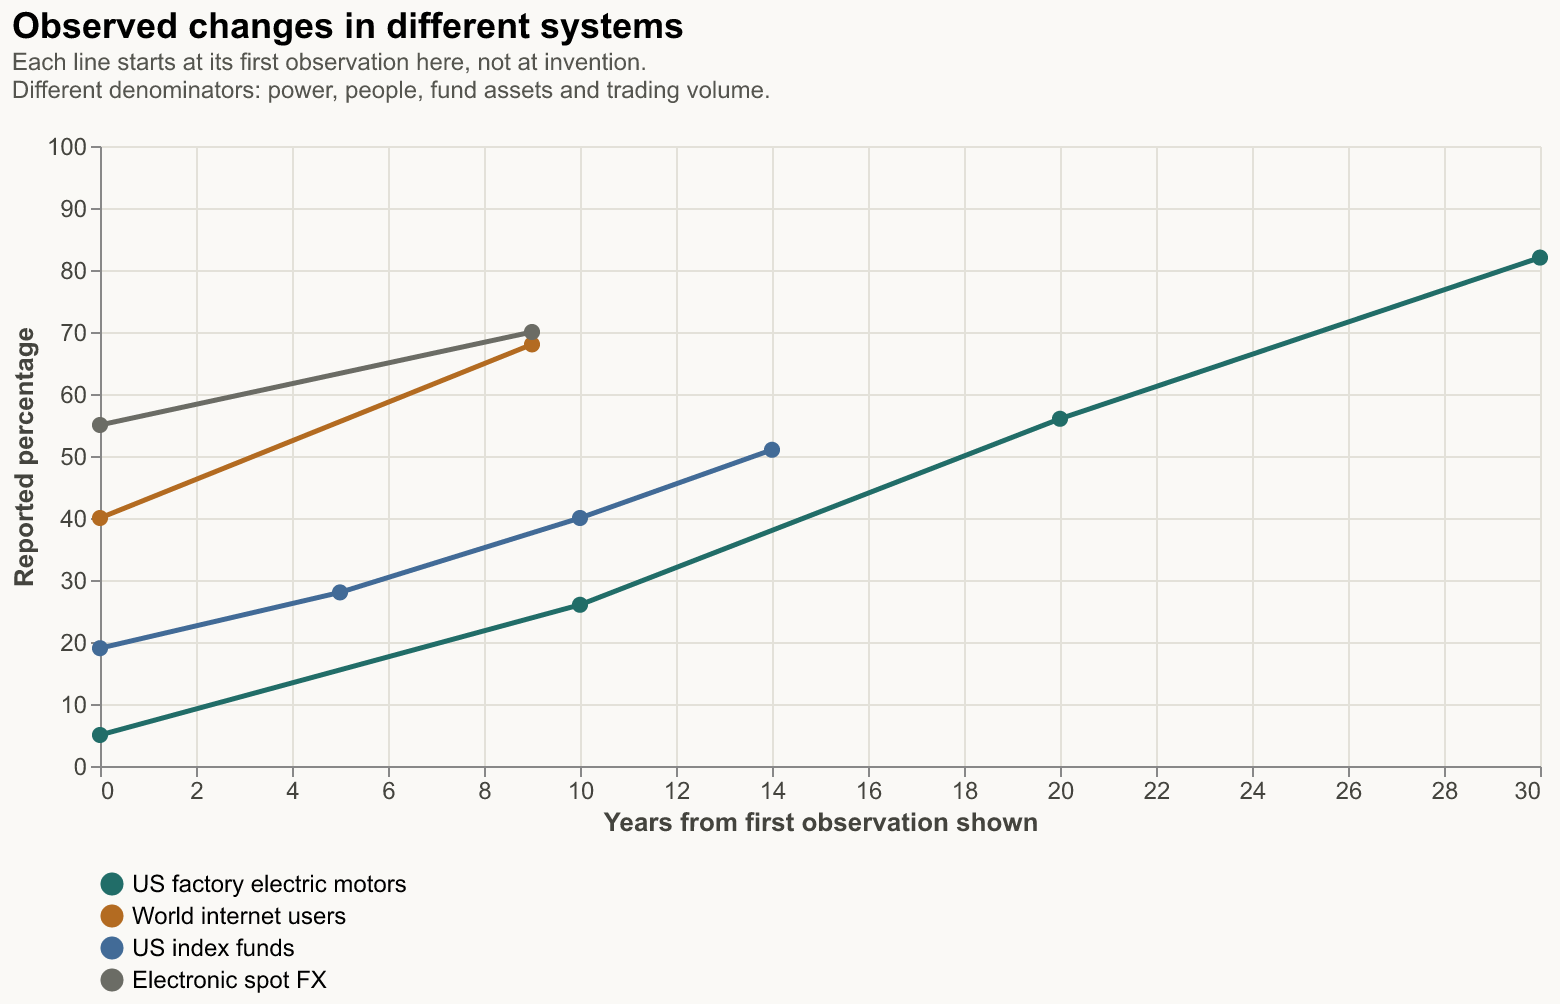
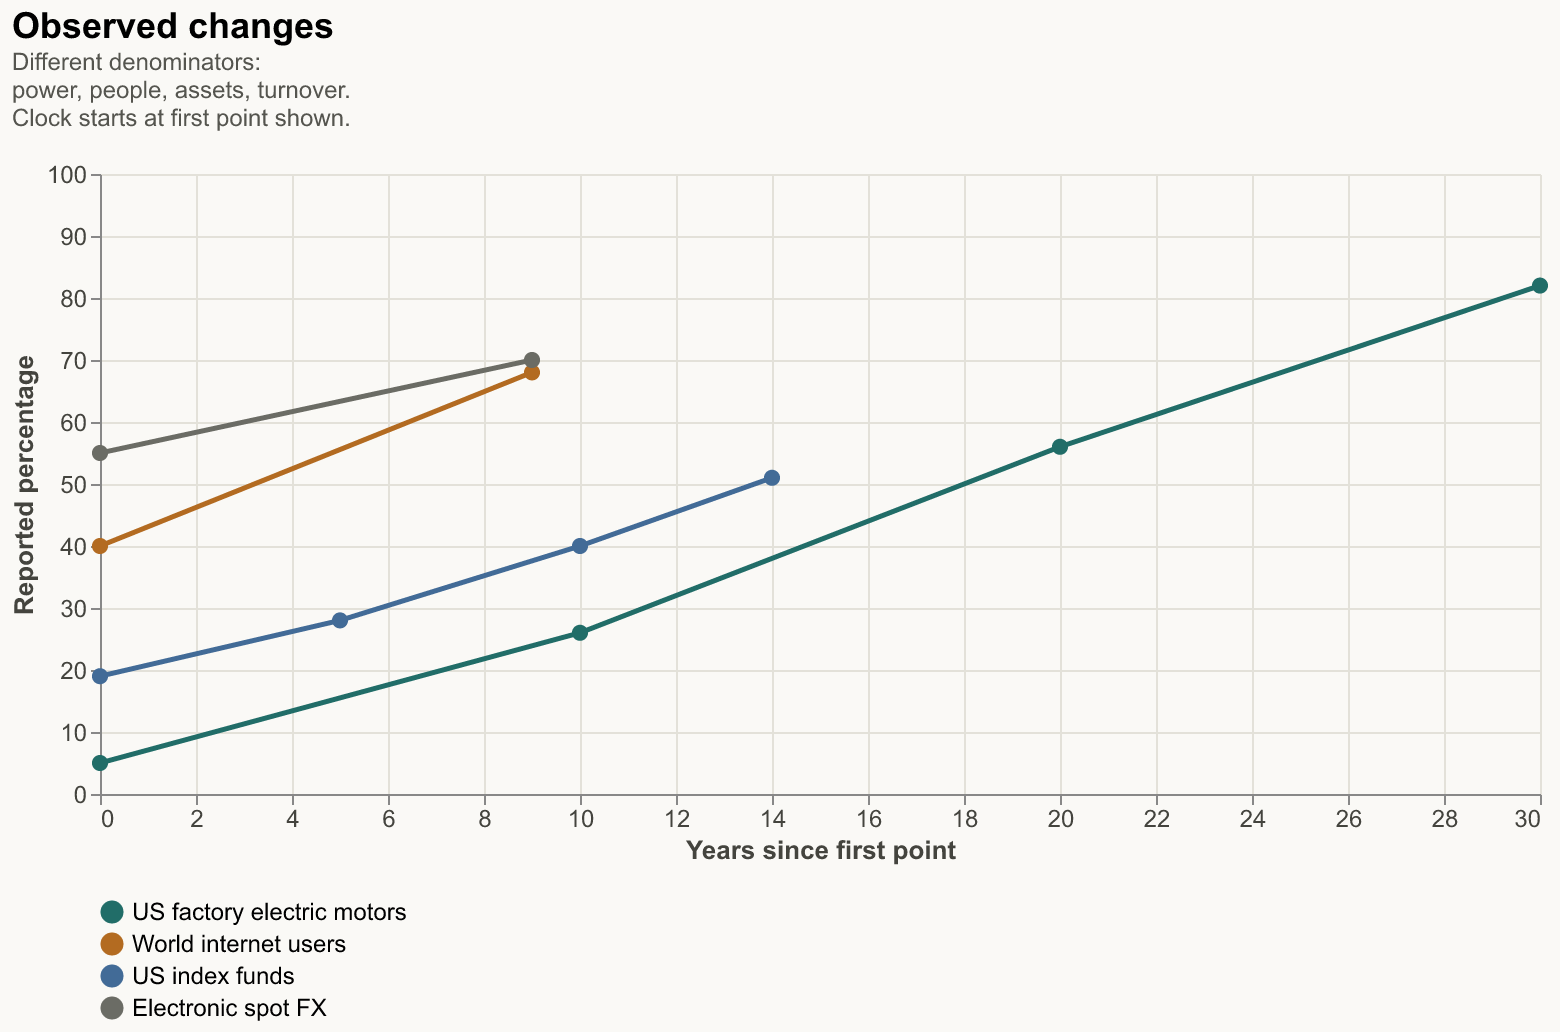
Complete source provenance and responsive chart captions

Changed region(s): [[0.0, 0.0, 1.0, 0.8337], [0.0615, 0.8645, 0.2769, 0.988]]

diff --git a/entries/2026-11-17-ai-wealth-control-2035/code/analyse.py b/entries/2026-11-17-ai-wealth-control-2035/code/analyse.py
@@ -35,11 +35,11 @@ for r in observations:
  assert 0<=r['share_pct']<=100
 series=list(dict.fromkeys(r['series'] for r in observations))
 chart('1-observed-transitions', observations, {
- 'title':{'text':'Observed changes in different systems','subtitle':['Each line starts at its first observation here, not at invention.','Different denominators: power, people, fund assets and trading volume.']},
+ 'title':{'text':'Observed changes','subtitle':['Different denominators:','power, people, assets, turnover.','Clock starts at first point shown.']},
  'params':[{'name':'pick','select':{'type':'point','fields':['series']},'bind':'legend'}],
  'mark':{'type':'line','point':{'filled':True,'size':65},'strokeWidth':2.5},
  'encoding':{
-  'x':{'field':'years_from_first_observation','type':'quantitative','title':'Years from first observation shown','scale':{'domain':[0,30]},'axis':{'tickMinStep':1}},
+  'x':{'field':'years_from_first_observation','type':'quantitative','title':'Years since first point','scale':{'domain':[0,30]},'axis':{'tickMinStep':1}},
   'y':{'field':'share_pct','type':'quantitative','title':'Reported percentage','scale':{'domain':[0,100]}},
   'color':{'field':'series','type':'nominal','scale':{'domain':series,'range':PALETTE}},
   'opacity':{'condition':{'param':'pick','value':1},'value':0.15},
@@ -49,11 +49,11 @@ for r in payments:r['share_pct']=float(r['share_pct']);r['year']=int(r['year'])
 for measure in ['Number','Value']:
  assert abs(sum(r['share_pct'] for r in payments if r['measure']==measure)-100)<0.015
 chart('2-payments-denominators',payments,{
- 'title':{'text':'Most payments can mean different things','subtitle':'US core noncash payments, 2020. Federal Reserve Payments Study.'},
+ 'title':{'text':'Payment count and value','subtitle':['US core noncash payments, 2020.','Federal Reserve Payments Study.']},
  'params':[{'name':'pick','select':{'type':'point','fields':['measure']},'bind':'legend'}],
  'mark':{'type':'bar','cornerRadiusEnd':3},
  'encoding':{'x':{'field':'instrument','type':'nominal','title':None,'sort':['Card','ACH','Cheque'],'axis':{'labelAngle':0}},
- 'y':{'field':'share_pct','type':'quantitative','title':'Share of core noncash payments (%)','scale':{'domain':[0,100]}},
+ 'y':{'field':'share_pct','type':'quantitative','title':'Share of payments (%)','scale':{'domain':[0,100]}},
  'xOffset':{'field':'measure','sort':['Number','Value']},
  'color':{'field':'measure','type':'nominal','scale':{'domain':['Number','Value'],'range':PALETTE[:2]}},
  'opacity':{'condition':{'param':'pick','value':1},'value':0.15},

diff --git a/entries/2026-11-17-ai-wealth-control-2035/index.md b/entries/2026-11-17-ai-wealth-control-2035/index.md
@@ -16,12 +16,14 @@ references:
     authors: [davidad]
     title: "By 2050, more wealth will be under effective AI control than is currently under human control, almost surely."
     container: X
+    year: n.d.
     url: https://x.com/davidad
     note: "Source is a screenshot supplied by Dominik and the full sentence in his accompanying reply. Original post URL and publication date unverified. Link is the author's profile only."
   - type: report
     authors: [US Bureau of the Census]
     corporate: true
     title: "Census of Manufactures: 1929. Chapter VI.—Power Equipment"
+    year: n.d.
     pages: 111–112
     url: https://www2.census.gov/prod2/decennial/documents/03450419v1ch06.pdf
     note: "Table 2, printed page 112; scanned page inspected directly."
@@ -41,6 +43,7 @@ references:
     authors: [International Telecommunication Union]
     corporate: true
     title: The ITU ICT SDG indicators
+    year: n.d.
     url: https://www.itu.int/en/ITU-D/Statistics/Pages/SDGs-ITU-ICT-indicators.aspx
     note: "Indicator 17.8.1; 2015 and 2024 estimates as retrieved on 17 November 2026."
   - type: report
@@ -78,6 +81,7 @@ references:
     corporate: true
     title: "Financial Accounts of the United States - Z.1. B.101 Households and nonprofit organizations"
     url: https://www.federalreserve.gov/releases/z1/preview/html/b101.htm
+    year: n.d.
     note: "Accounting categories only; no numerical wealth baseline is taken from this preview table."
 ---
 
@@ -109,7 +113,7 @@ These are predictions, with no dataset attached. There are separate claims about
 
 Here, **effective control** means discretion over consequential investments or operating uses of assets, plus authority to execute the resulting exchanges within a human mandate. People may retain ownership, broad objectives and removal powers. A system executing a human's selected trade, following a fixed index rule or recommending a property valuation does not qualify merely because it uses a computer. Capital allocation and running the underlying business are different measures; they must not be added together.
 
-**Wealth** means global household net worth: real assets and financial or business claims, less liabilities. The [Fed's balance-sheet categories](https://www.federalreserve.gov/releases/z1/preview/html/b101.htm) illustrate this accounting approach, although that table also includes nonprofit organisations. This check includes illiquid property and excludes human capital, state assets and unpriced favours. It is a narrower accounting proxy for my original definition. Count ultimate household claims once, with funds and companies looked through rather than added again. Attribute only the net exposure over which AI has discretion, using consistent prices and exchange rates across years.
+**Wealth** means global household net worth: real assets and financial or business claims, less liabilities. The [Fed's balance-sheet categories](https://www.federalreserve.gov/releases/z1/preview/html/b101.htm) illustrate this accounting approach, although that table also includes nonprofit organisations. This check includes illiquid property and excludes human capital, state assets and unpriced favours. It is a narrower accounting proxy for my original definition. Count ultimate household claims once, with funds and companies looked through instead of added again. Attribute only the net exposure over which AI has discretion, using consistent prices and exchange rates across years.
 
 “More than humans currently control” compares **AI's future stock with humans' present stock**. It does not necessarily mean a future majority. For this check, “present” is a fixed 2026 baseline because the post's date is unverified. The condition is:
 
@@ -181,11 +185,11 @@ There is no measured starting share of global wealth under the definition of AI 
 
 The research run began at 08:21:57 on 17 November 2026 (UK time, then GMT). The agent reused an earlier exploration, its historical source notes and its model's distinction between stock and turnover. It searched for the original post, checked selected primary sources, inspected the scanned census table and produced the charts. The first complete draft and usage snapshot were recorded at 08:36:53, 14.9 minutes after the start; rendering and publication checks followed.
 
-A follow-up check added index funds because most of the original examples measured activity rather than assets. The direct ICI download returned an access error; its alternative publisher URL worked. The JavaScript-only BCB page was replaced by the readable BIS paper co-authored with central-bank staff.
+A follow-up check added index funds because most of the original examples measured activity instead of assets. The direct ICI download returned an access error; its alternative publisher URL worked. The JavaScript-only BCB page was replaced by the readable BIS paper co-authored with central-bank staff.
 
 ### Data and method
 
-The agent selected the cases and judged which kinds of control they represent. These are interpretation steps. Python copied the checked observations into charts, calculated elapsed intervals and checked payment-share totals. No diffusion curve was fitted. The chart uses ICI's published combined index shares, rather than adding rounded components. Source titles follow the providers' publications; sources without a supplied dataset citation are cited as reports or webpages.
+The agent selected the cases and judged which kinds of control they represent. These are interpretation steps. Python copied the checked observations into charts, calculated elapsed intervals and checked payment-share totals. No diffusion curve was fitted. The chart uses ICI's published combined index shares, instead of adding rounded components. Source titles follow the providers' publications; sources without a supplied dataset citation are cited as reports or webpages.
 
 The entry reuses the existing site design. Every chart has tooltips, a clickable legend, an export menu, the exact plotted CSV, a Vega-Lite specification and a PNG fallback. No new council or model experiment was run.
 
